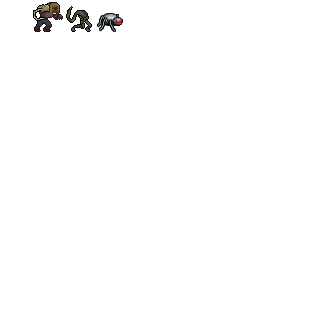
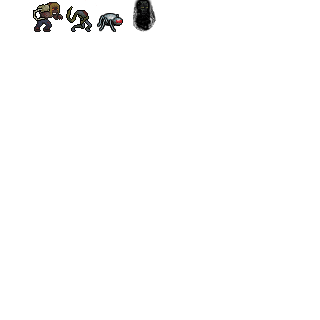
v1.5.4
Updated tileset
Fixed BioCo Food Slurry
Added zombie echo
Added zombie echo's attacks
Added dead parasite
Updated monster groups with Beserker and Echo

Changed region(s): [[0.4062, 0.0, 0.5, 0.0938]]

diff --git a/README.md b/README.md
@@ -6,6 +6,24 @@ Ideas, suggestions and other such mentions are more than welcome and I can be re
 Detailed Changelogs;
 
 
+# Version 1.5.4
+
+Total Changes
+
+	Updated Tilset
+
+MutEx Changes
+
+	Added Echo zombie
+		-Added echo attacks
+	Added dead parasite
+	Updated monster groups with echo and beserker
+	
+BioCo Changes
+
+	Fixed BioCo Food Slurry
+
+
 # Version 1.5.3
 
 Total Changes
